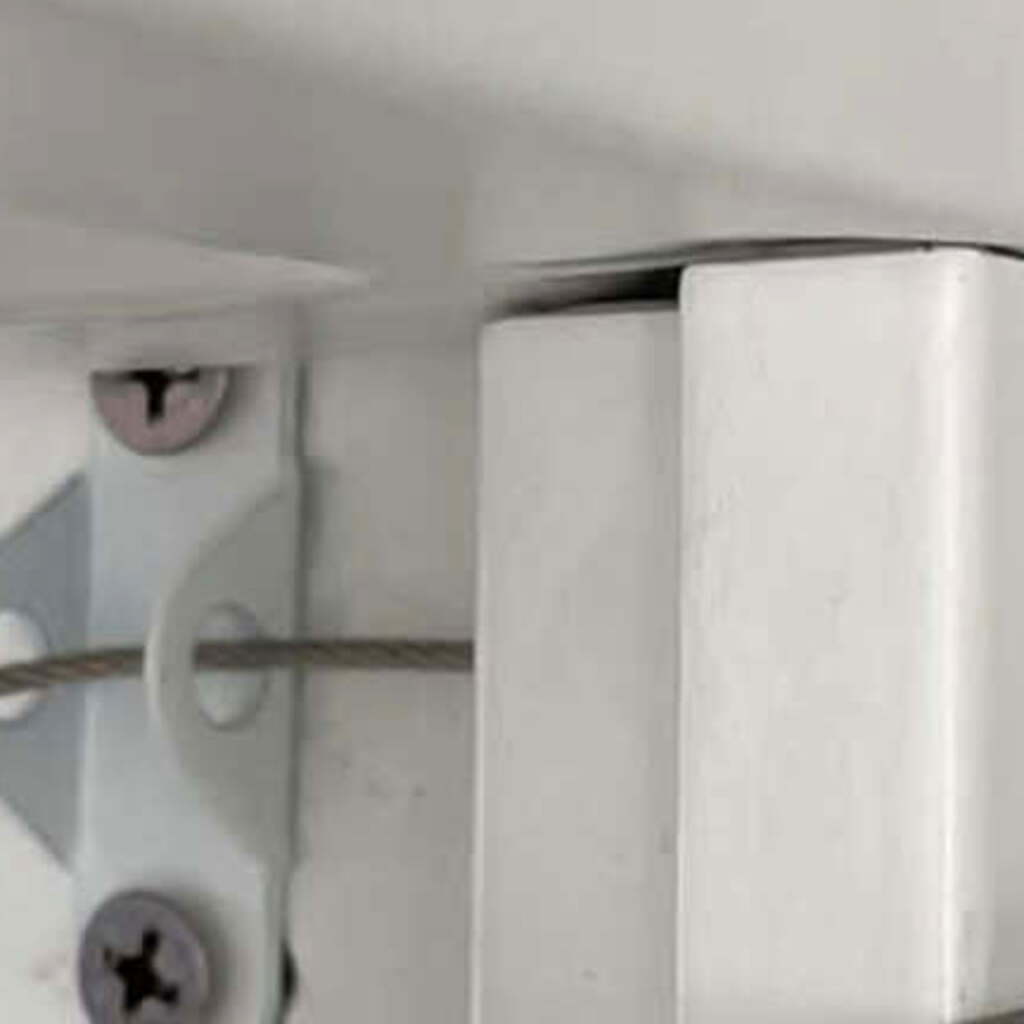
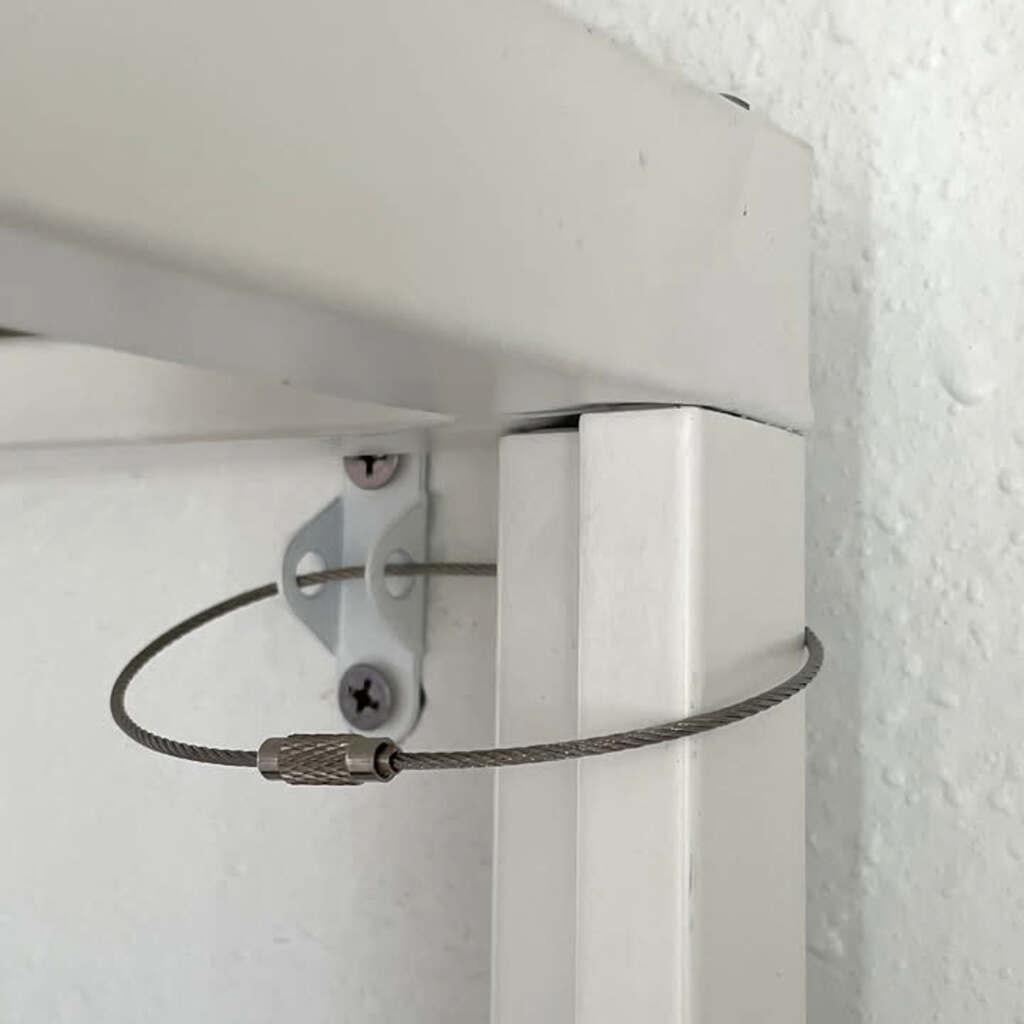
dark mode, share button, reprocess anchor image

diff --git a/src/css/styles.css b/src/css/styles.css
@@ -98,7 +98,7 @@ h2 a,
 
 h2 {
   font-size: 1.25rem;
-  margin: 2rem 0 0.25rem;
+  margin: 3rem 0 0.25rem;
   font-weight: 500;
   line-height: 1.2;
 }
@@ -112,6 +112,15 @@ pre {
 a {
   color: #BA5850;
   white-space: nowrap;
+}
+
+button {
+  font: inherit;
+  background: none;
+  border: none;
+  color: #BA5850;
+  cursor: pointer;
+  text-decoration: underline;
 }
 
 /* Custom */
@@ -138,7 +147,7 @@ small {
 picture:has(img.product) {
   float: left;
   max-width: 150px;
-  margin: 0.5rem 1.5rem 0rem 0;
+  margin: 0.7rem 0.8rem 0 0;
   font-size: 0;
 }
 
@@ -159,5 +168,33 @@ picture:has(img.product) img {
 
   #merch .container {
     grid-template-columns: repeat(3, 1fr);
+  }
+}
+
+/* Dark mode */
+@media (prefers-color-scheme: dark) {
+  :root {
+    color-scheme: dark;
+  }
+
+  body {
+    background: #1a1a1a;
+    color: #e0e0e0;
+  }
+
+  body>header {
+    border-color: #e0e0e0;
+  }
+
+  footer {
+    border-color: #444;
+  }
+
+  pre {
+    background: #2a2a2a;
+  }
+
+  img {
+    filter: grayscale(0.6);
   }
 }

diff --git a/eleventy.config.js b/eleventy.config.js
@@ -6,6 +6,9 @@ import markdownItAttrs from 'markdown-it-attrs'
 import mdiImageFigures from 'markdown-it-image-figures'
 
 export default function (eleventyConfig) {
+  // Watch CSS
+  eleventyConfig.addWatchTarget('src/css/')
+
   // Plugins
   eleventyConfig.addPlugin(rssPlugin)
   eleventyConfig.addPlugin(eleventyImageTransformPlugin, {

diff --git a/src/posts/containing-a-monster.md b/src/posts/containing-a-monster.md
@@ -17,32 +17,38 @@ Toddler-proofing your home is really just acknowledging that you now share livin
 <small>\* below are affiliate links that support this blog</small>
 
 ## THE PERIMETER
-[Retractable Safety Gate](https://amzn.to/3NQILD2){.product-link target=_blank}  
+[Retractable Safety Gate](https://amzn.to/3NQILD2){target=_blank}
+
 ![Retractable safety gate](/img/containing-a-monster-fence.jpeg){.product sizes="150px"}
 The first line of defense. This thing retracts like a window shade when you're not using it, which means no permanent eyesore blocking your hallway. Stretches up to 55 inches wide. Installs with adhesive, so no drilling required. The mesh won't give them footholds for climbing, though that won't stop them from trying. Install it at the stairs, in doorways, anywhere you need to establish that certain parts of the house are currently off-limits. It's not permanent. Nothing with toddlers is. But it holds long enough for you to finish whatever you were doing before they discovered a new way to endanger themselves.
 
 ## THE CABINETS
-[Safety Strap Locks](https://amzn.to/4ky4axb){.product-link target=_blank}  
+[Safety Strap Locks](https://amzn.to/4ky4axb){target=_blank}
+
 ![Safety strap locks](/img/containing-a-monster-strap.jpeg){.product sizes="150px"}
 Stick-on straps that operate smoother than you'd expect. They go on drawers, cabinets, wherever you keep things you'd rather not explain to a poison control operator. The 3M adhesive actually works, which is rare for this kind of thing. Toddlers don't have the grip strength or the patience to defeat them, at least not for a while. By the time they figure it out, they're old enough that you've already moved on to worrying elsewhere. When you don't need them anymore, they come off without taking the paint with them.
 
 ## THE FURNITURE
-[Anti-Tip Furniture Anchors](https://amzn.to/4kc8JwV){.product-link target=_blank}  
+[Anti-Tip Furniture Anchors](https://amzn.to/4kc8JwV){target=_blank}
+
 ![Anti-tip furniture anchors](/img/containing-a-monster-anchor.jpeg){.product sizes="150px"}
 Toddlers climb. It's not a phase. It's their primary method of exploration and your primary source of anxiety. These are heavy-duty stainless steel straps with braided cable that anchor dressers, bookshelves, anything tall enough to become a tragedy if it tips. Not the flimsy plastic garbage. Actual metal. Rated for 400 pounds, which is more than enough to handle your kid's enthusiasm for vertical surfaces. The screw-closure design lets you detach them when you need to move furniture or finally clean behind that dresser you've been avoiding. Ten minutes of installation now saves you from a nightmare scenario later.
 
 ## THE OUTLETS
-[Self-Closing Outlet Covers](https://amzn.to/4qhxBVg){.product-link target=_blank}  
+[Self-Closing Outlet Covers](https://amzn.to/4qhxBVg){target=_blank}
+
 ![Self-closing outlet covers](/img/containing-a-monster-outlet.jpeg){.product sizes="150px"}
 Forget those little plastic caps. You'll lose them. You'll forget to put them back in. Your kid will find one under the couch and try to eat it. These replace the entire wall plate with a self-closing cover. Plug something in, the cover slides open. Unplug it, the cover slides shut. Automatic. Takes a screwdriver and about two minutes per outlet to install. They only work with standard center-screw outlets, so check before you order. If your outlet has one screw in the middle, you're fine. Two screws on the top and bottom means you need the other version.
 
 ## THE DOORS
-[Door Knob Covers](https://amzn.to/4qcp4mk){.product-link target=_blank}  
+[Door Knob Covers](https://amzn.to/4qcp4mk){target=_blank}
+
 ![Door knob covers](/img/containing-a-monster-door-knob.jpeg){.product sizes="150px"}
 These turn door knobs into puzzles. The cover spins freely unless you squeeze the sides just right. Adults can open them without thinking. Toddlers cannot. This keeps them out of bathrooms, closets, garages, anywhere you've stashed the things that make parenting harder. The downside is you'll occasionally forget you installed them and struggle with your own doors like an idiot. A small price for containment.
 
 ## THE FIREPLACE
-[Magnetic Fireplace Cover](https://amzn.to/4bzv70Y){.product-link target=_blank}  
+[Magnetic Fireplace Cover](https://amzn.to/4bzv70Y){target=_blank}
+
 ![Magnetic fireplace cover](/img/containing-a-monster-fireplace.jpeg){.product sizes="150px"}
 If you have a decorative fireplace, this is the move. A large magnetic cover that sticks to the metal frame, blocking access to the opening. It looks unassuming. It doesn't scream "baby-proofed house." It just sits there, doing its job, keeping tiny hands away from soot and sharp edges. My kid never messed with it. Maybe because it looks boring. Maybe because magnets are strong. Either way, it works. If you're looking for something more permanent, glass doors are an option, but this gets you 90% of the way there for a fraction of the cost.
 
